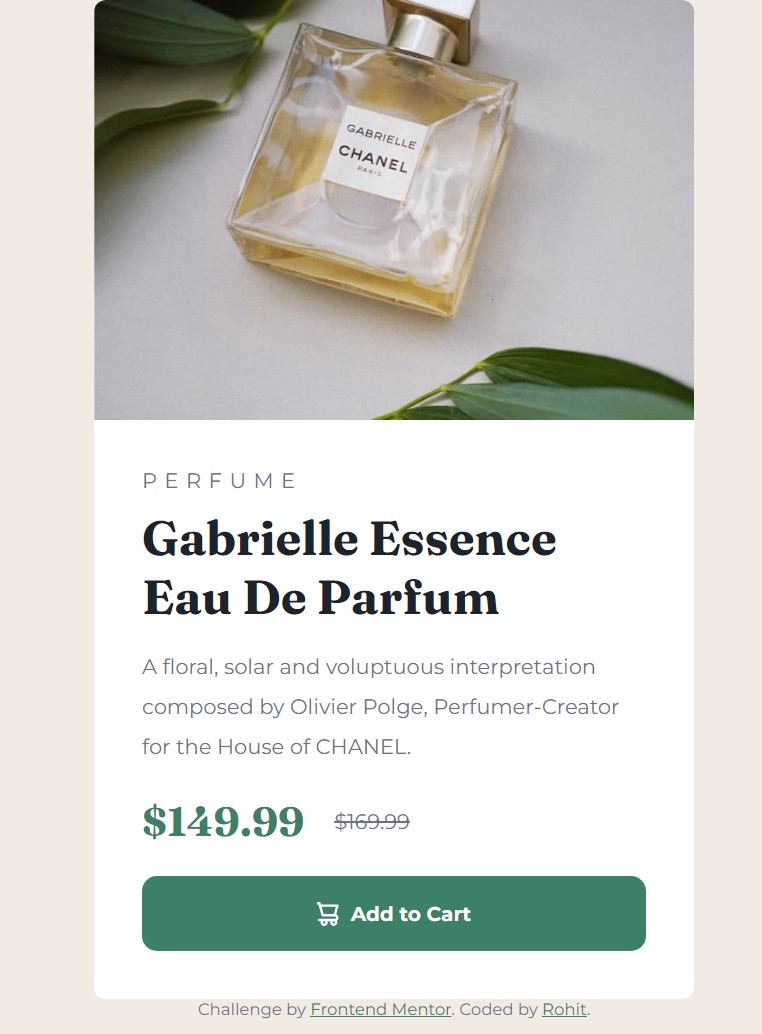
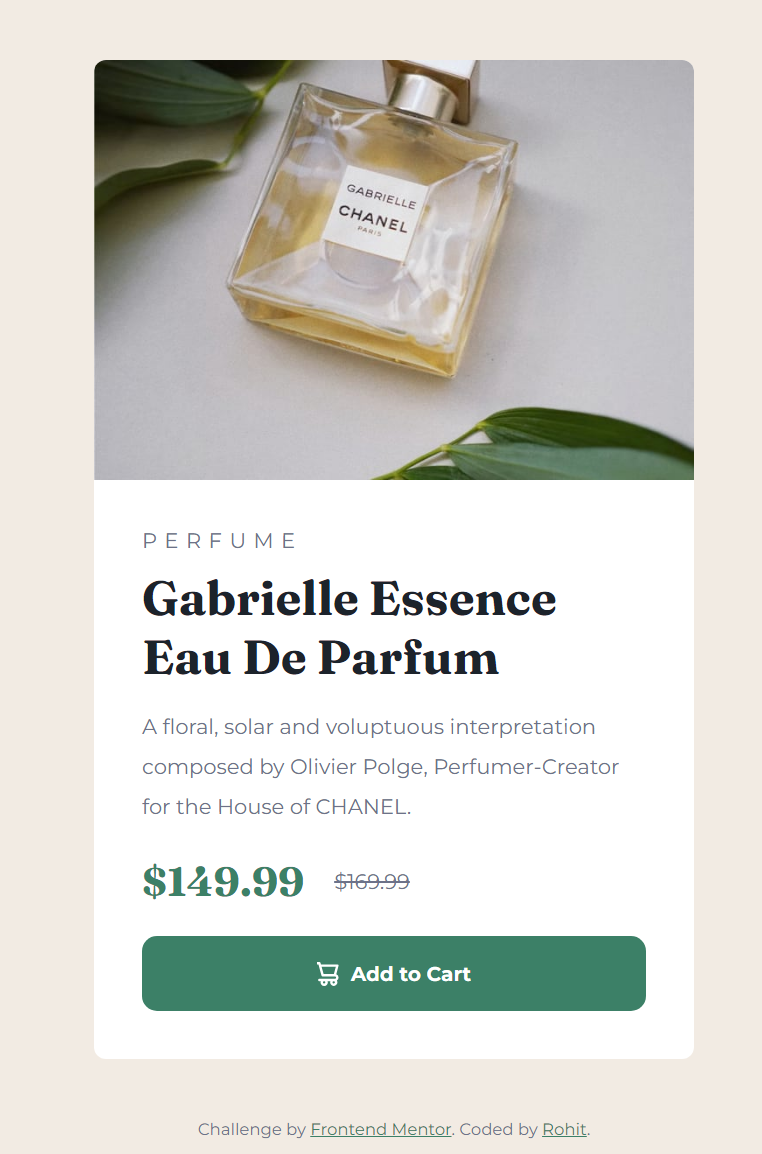
Updated

Changed region(s): [[0.1207, 0.4642, 0.9357, 0.9903], [0.1207, 0.0, 0.9357, 0.4333]]

diff --git a/Styles.css b/Styles.css
@@ -123,6 +123,9 @@ button:active {
 }
 
 @media only screen and (max-width: 600px) {
+    main{
+        margin: 40px;
+    }
     section {
         flex-direction: column;
         width: 400px;
